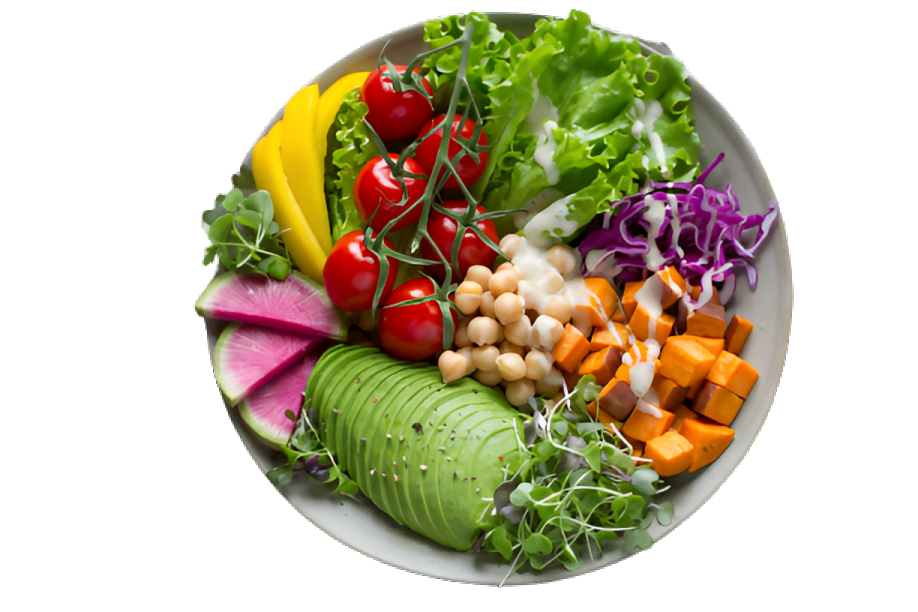
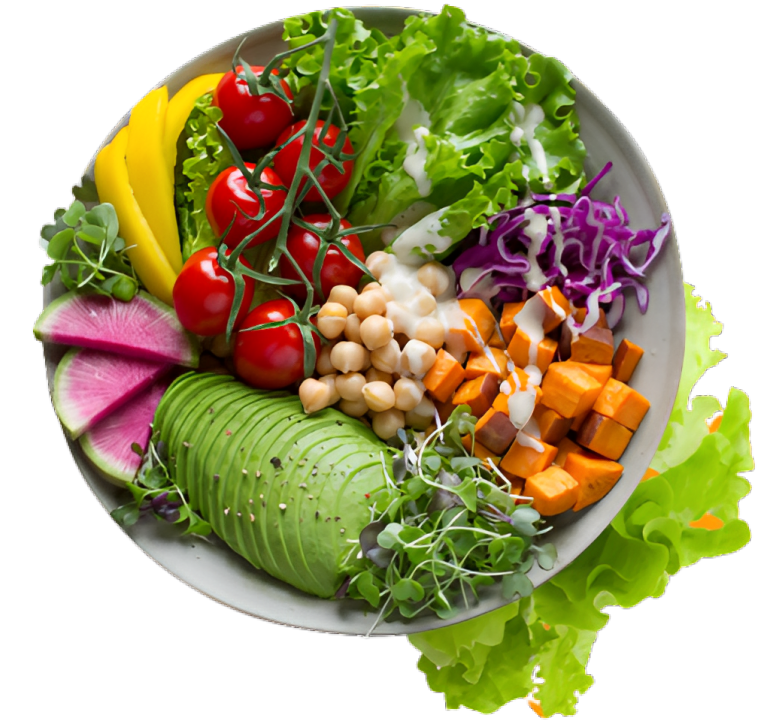
restyling hero section

diff --git a/src/App.styles.ts b/src/App.styles.ts
@@ -1,7 +1,7 @@
 import styled from 'styled-components'
 
 export const Wrapper = styled.div`
-  max-width: 1280px;
+  max-width: 1440px;
   padding: 32px;
   margin: 0 auto;
 `
@@ -16,26 +16,37 @@ export const Hero = styled.div`
   .hero-left {
     display: flex;
     flex-direction: column;
-    justify-content: center;
+
+    width: 100%;
+    gap: 32px;
+
+    position: relative;
 
     h1 {
       color: ${({ theme }) => theme.colors.gray.primary};
-      font-size: 4rem;
+      font-size: 3.5rem;
+      margin-top: 128px;
+      line-height: 64px;
     }
 
     p {
       color: ${({ theme }) => theme.colors.gray.secondary};
-      line-height: 20px;
+      line-height: 32px;
+      font-weight: 500;
     }
   }
 
   .hero-right {
+    position: absolute;
+
+    right: 80px;
+
     display: flex;
     justify-content: center;
     align-items: center;
 
     img {
-      height: 500px;
+      height: 800px;
     }
   }
 `

diff --git a/index.html b/index.html
@@ -6,7 +6,7 @@
     <meta name="viewport" content="width=device-width, initial-scale=1.0" />
     <link rel="preconnect" href="https://fonts.googleapis.com">
     <link rel="preconnect" href="https://fonts.gstatic.com" crossorigin>
-    <link href="https://fonts.googleapis.com/css2?family=Roboto:wght@400;700&display=swap" rel="stylesheet">
+    <link href="https://fonts.googleapis.com/css2?family=Poppins:wght@400;500;700&display=swap" rel="stylesheet">
     <title>Vite + React + TS</title>
   </head>
   <body>

diff --git a/src/App.tsx b/src/App.tsx
@@ -19,7 +19,7 @@ export const App = () => {
               <p>
                 Healthy switcher do all the prep work, like peeding,
                 <br />
-                chopping & marinating, so you can coock a fresh food.
+                chopping & marinating, so you can cock a fresh food.
               </p>
               <ButtonSecondary>Order Now</ButtonSecondary>
             </div>

diff --git a/src/components/Header/index.tsx b/src/components/Header/index.tsx
@@ -16,7 +16,8 @@ export const Header = () => {
           <li>About us</li>
           <li>Contact us</li>
           <li>
-            <ShoppingCart size={28} color="#b0a1ba" weight="fill" />
+            <ShoppingCart size={28} color="#484848" weight="fill" />
+            <span className="cart_amount" />
           </li>
           <li>
             <ButtonPrimary>Booking Now</ButtonPrimary>

diff --git a/src/components/Header/styles.ts b/src/components/Header/styles.ts
@@ -33,5 +33,16 @@ export const HeaderOptions = styled.ul`
 
     list-style: none;
     font-weight: 700;
+
+    position: relative;
+
+    .cart_amount {
+      position: absolute;
+      right: 6px;
+      width: 12px;
+      height: 12px;
+      background: white;
+      border-radius: 999px;
+    }
   }
 `

diff --git a/src/index.css b/src/index.css
@@ -2,7 +2,12 @@
   margin: 0;
   padding: 0;
   box-sizing: border-box;
-  font-family: 'Roboto', sans-serif;
+  font-family: 'Poppins', sans-serif;
+}
+
+body {
+  background: url(./assets/blob.png) no-repeat top right;
+  background-size: 1200px;
 }
 
 a {

diff --git a/styles/theme.ts b/styles/theme.ts
@@ -6,8 +6,8 @@ export const theme: DefaultTheme = {
       primary: '#FF9F0D',
     },
     gray: {
-      primary: '#717171',
-      secondary: '#484848',
+      primary: '#484848',
+      secondary: '#717171',
     },
     white: '#ffffff',
   },
